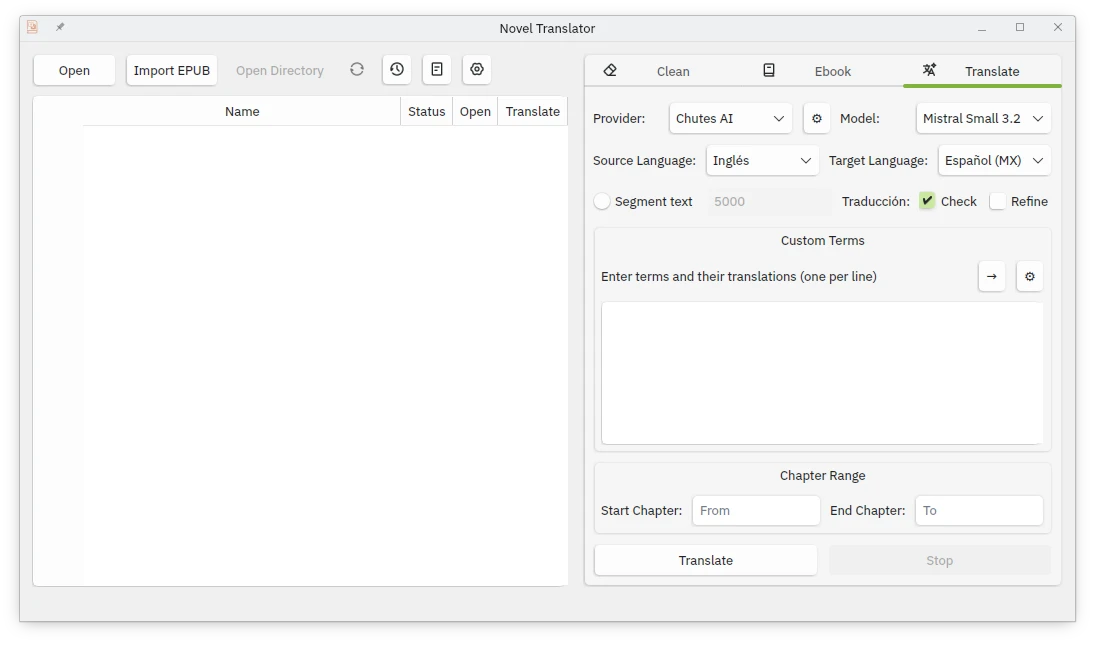
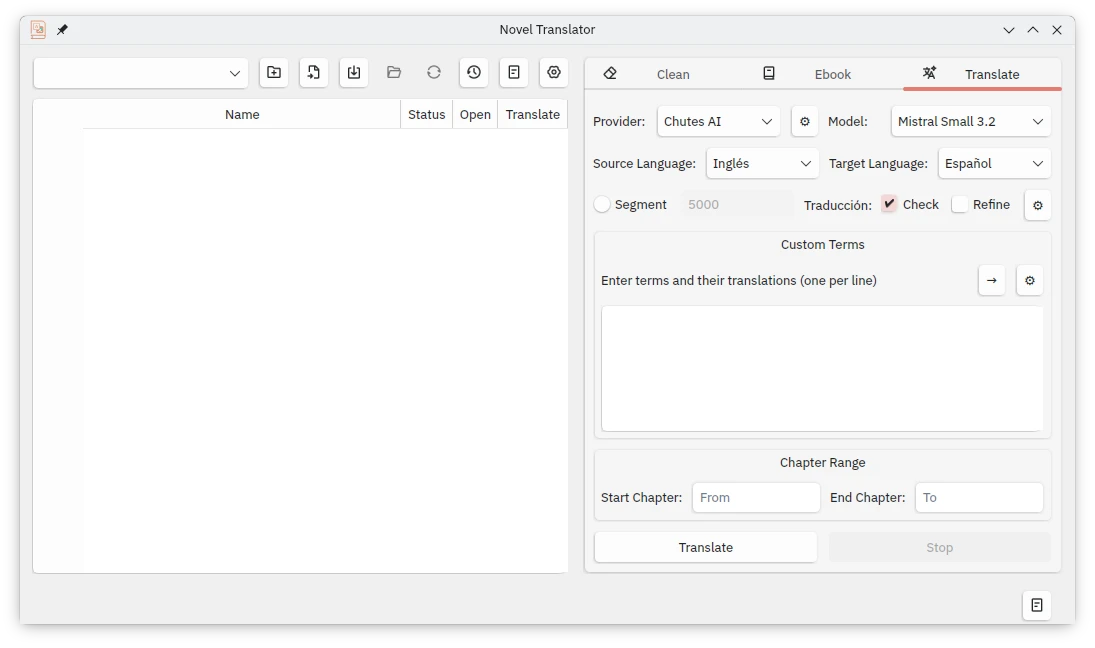
docs: update README files with project rename and new features
- Rename repository from novel-manager to novel-translator
- Add descriptions for library management, custom terms, prompts, and metadata
- Update AI providers list and advanced features
- Refresh screenshots and project structure

diff --git a/README_ES.md b/README_ES.md
@@ -26,8 +26,8 @@ En sí lo hice porque tengo algunas novelas que aunque se tradujeron al español
 ### Instalación
 1. Clona el repositorio:
 ```bash
-git clone https://github.com/mfloresz/novel-manager.git
-cd novel-manager
+git clone https://github.com/mfloresz/novel-translator.git
+cd novel-translator
 ```
 
 2. Crea entorno virtual:
@@ -60,20 +60,26 @@ Para usuarios de Windows, puedes usar el script de instalación proporcionado:
 
 ### 📁 Gestión de Archivos
 - Interfaz gráfica intuitiva para navegación de archivos
-- **Importación EPUB**: Convierte EPUBs existentes a archivos de texto
+- **Gestión de Biblioteca**: Combobox para seleccionar novelas desde un directorio de biblioteca configurado
+- **Importación EPUB**: Convierte EPUBs existentes a archivos de texto con ventana de vista previa
+- **Importación de Capítulos TXT**: Importar archivos TXT desde un directorio fuente a la estructura del proyecto
 - Sincronización y vista previa automáticas de archivos
 - Seguimiento de estado con indicadores de color
 - Historial de carpetas recientes para acceso rápido
+- Creación automática de estructura de carpetas (originals/, translated/)
 
 ### 🌐 Traducción Avanzada
 ![Translation](assets/translate.webp)
 
-- **Múltiples Proveedores de IA**: Google Gemini, Chutes AI, Together AI, DeepInfra, OpenAI
+- **Múltiples Proveedores de IA**: Google Gemini, Hyperbolic, Chutes AI, Mistral
 - **Comprobación y Refinamiento**: Incluye opciones para verificar la calidad de la traducción contra el texto original y para mejorarla mediante un proceso adicional de refinamiento. Ambas opciones consumen una cantidad significativa de tokens adicionales.
 - **Configuración Avanzada de Comprobación y Refinamiento**: Permite configurar un proveedor y modelo diferente para los pasos de comprobación y refinamiento. Esto se puede configurar de forma global en los ajustes o para una sola sesión desde el panel de traducción.
-- **Términos Personalizados**: Terminología específica por proyecto con persistencia
-- **Segmentación Inteligente**: Respeta la estructura narrativa
-- **Base de Datos**: Evita retraducciones
+- **Términos Personalizados**: Terminología específica por proyecto con persistencia para mantener consistencia en las traducciones.
+- **Prompts Personalizados**: Prompts específicos por proyecto para operaciones de traducción, verificación y refinamiento por par de idiomas.
+- **Metadatos del Libro**: Gestión de título, autor, descripción y notas del proyecto.
+- **Segmentación Inteligente**: Respeta la estructura narrativa para preservar el contexto.
+- **Base de Datos**: Evita retraducciones almacenando el trabajo completado.
+- **Soporte para Thinking Tokens**: Soporte para modelos de IA que usan thinking tokens en las respuestas.
 
 ### 🧹 Limpieza de Texto
 ![Translation](assets/clean.webp)
@@ -116,16 +122,19 @@ CHUTES_API_KEY=tu_clave_aqui
 
 ### Ajustes de la Aplicación
 - **Ubicación**: `src/config/config.json`
-- **Personalizable**: Proveedor y modelo por defecto, idiomas, tamaño de segmentación
+- **Personalizable**: Proveedor y modelo por defecto, idiomas, tamaño de segmentación, directorio de biblioteca
 - **Persistencia**: Ajustes guardados automáticamente por proyecto
 
 ## Características Avanzadas
 
 ### 🏗 Arquitectura
-- **Base de Datos Híbrida**: SQLite con respaldo JSON automático
+- **Base de Datos Híbrida**: SQLite con respaldo JSON automático para persistencia de datos
 - **Procesamiento Asíncrono**: Traducciones en segundo plano sin bloquear la interfaz
 - **Gestión Inteligente de Estados**: Seguimiento en tiempo real con persistencia
 - **Diseño Modular**: Fácil de extender con nuevos proveedores y características
+- **Notas por Proyecto**: Sistema dedicado de notas para cada proyecto de novela
+- **Registro de Sesiones**: Registro detallado de sesiones de traducción con capacidades de exportación
+- **Detección de Tema del Sistema**: Los iconos se adaptan automáticamente a los temas claro/oscuro del sistema
 
 ### 🔧 Detalles Técnicos
 - **Rendimiento**: Optimizado para archivos grandes (100+ capítulos)
@@ -135,7 +144,7 @@ CHUTES_API_KEY=tu_clave_aqui
 
 ## Estructura del Proyecto
 ```
-novel-manager/
+novel-translator/
 ├── src/
 │   ├── gui/           # Interfaz de Usuario
 │   ├── logic/         # Lógica de Negocio

diff --git a/README.md b/README.md
@@ -26,8 +26,8 @@ I created this application because I have some novels that were translated to Sp
 ### Installation
 1. Clone the repository:
 ```bash
-git clone https://github.com/mfloresz/novel-manager.git
-cd novel-manager
+git clone https://github.com/mfloresz/novel-translator.git
+cd novel-translator
 ```
 
 2. Create virtual environment:
@@ -60,17 +60,26 @@ For Windows users, you can use the provided installation script:
 
 ### 📁 File Management
 - Intuitive graphical interface for file navigation
-- **EPUB Import**: Convert existing EPUBs to text files
+- **Library Management**: Combobox to select novels from a configured library directory
+- **EPUB Import**: Convert existing EPUBs to text files with preview window
+- **TXT Chapters Import**: Import TXT files from a source directory into the project structure
 - Automatic file synchronization and preview
 - File status tracking with color indicators
 - Recent folders history for quick access
+- Automatic folder structure creation (originals/, translated/)
 
 ### 🌐 Advanced Translation
 ![Translation](assets/translate.webp)
 
-- **Multiple AI Providers**: Google Gemini, Chutes AI, Together AI, DeepInfra, OpenAI
+- **Multiple AI Providers**: Google Gemini, Hyperbolic, Chutes AI, Mistral
 - **Check and Refine**: Includes options to verify the quality of the translation against the original text and to improve it through an additional refinement process. Both options consume a significant amount of additional tokens.
 - **Advanced Check and Refine Configuration**: Allows configuring a different provider and model for the check and refine steps. This can be configured globally in the settings or for a single session from the translation panel.
+- **Custom Terms**: Project-specific terminology with persistence to maintain consistency across translations.
+- **Custom Prompts**: Project-specific prompts for translation, check, and refine operations per language pair.
+- **Book Metadata**: Management of title, author, description, and project notes.
+- **Smart Segmentation**: Respects narrative structure to preserve context.
+- **Database**: Avoids re-translations by storing completed work.
+- **Thinking Token Support**: Support for AI models that use thinking tokens in responses.
 
 ### 🧹 Text Cleaning
 ![Translation](assets/clean.webp)
@@ -113,16 +122,19 @@ CHUTES_API_KEY=your_key_here
 
 ### Application Settings
 - **Location**: `src/config/config.json`
-- **Customizable**: Default provider, model, languages, segmentation size
+- **Customizable**: Default provider, model, languages, segmentation size, library directory
 - **Persistence**: Settings saved automatically per project
 
 ## Advanced Features
 
 ### 🏗 Architecture
-- **Hybrid Database**: SQLite with automatic JSON backup
+- **Hybrid Database**: SQLite with automatic JSON backup for data persistence
 - **Asynchronous Processing**: Background translations without UI blocking
 - **Smart State Management**: Real-time status tracking with persistence
 - **Modular Design**: Easy to extend with new providers and features
+- **Project Notes**: Dedicated notes system for each novel project
+- **Session Logging**: Detailed logging of translation sessions with export capabilities
+- **System Theme Detection**: Icons automatically adapt to light/dark system themes
 
 ### 🔧 Technical Details
 - **Performance**: Optimized for large files (100+ chapters)
@@ -132,7 +144,7 @@ CHUTES_API_KEY=your_key_here
 
 ## Project Structure
 ```
-novel-manager/
+novel-translator/
 ├── src/
 │   ├── gui/           # User Interface
 │   ├── logic/         # Business Logic
